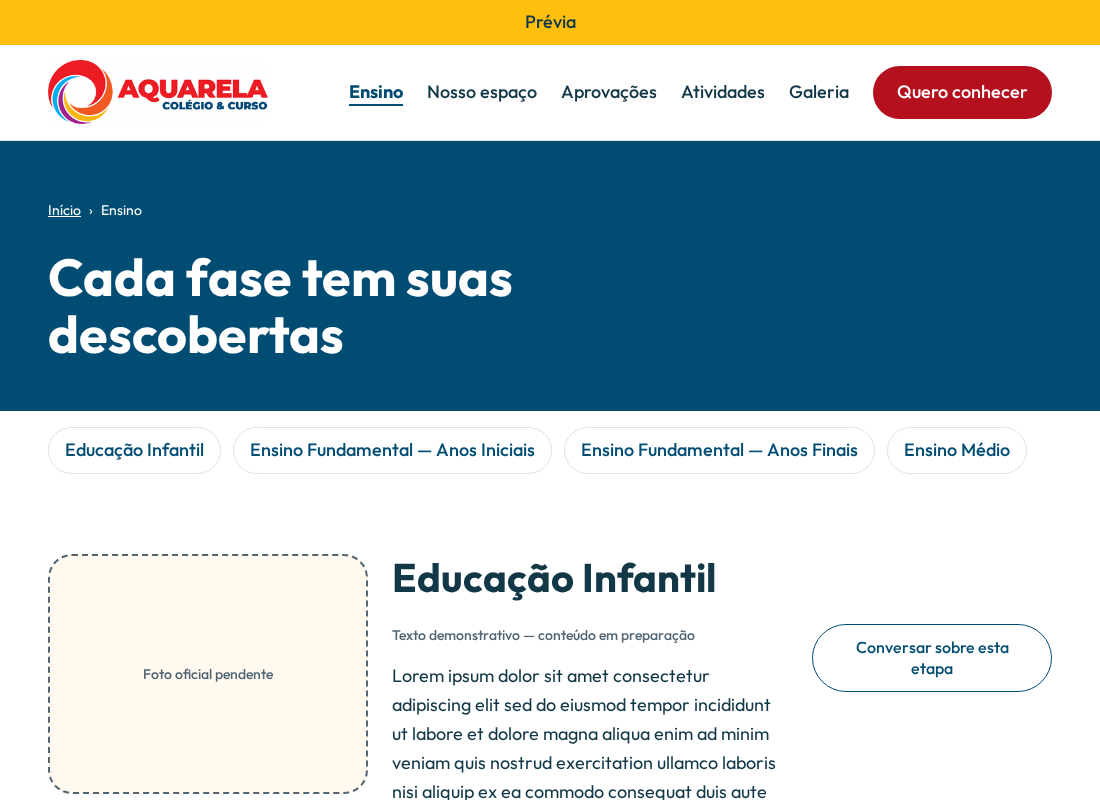
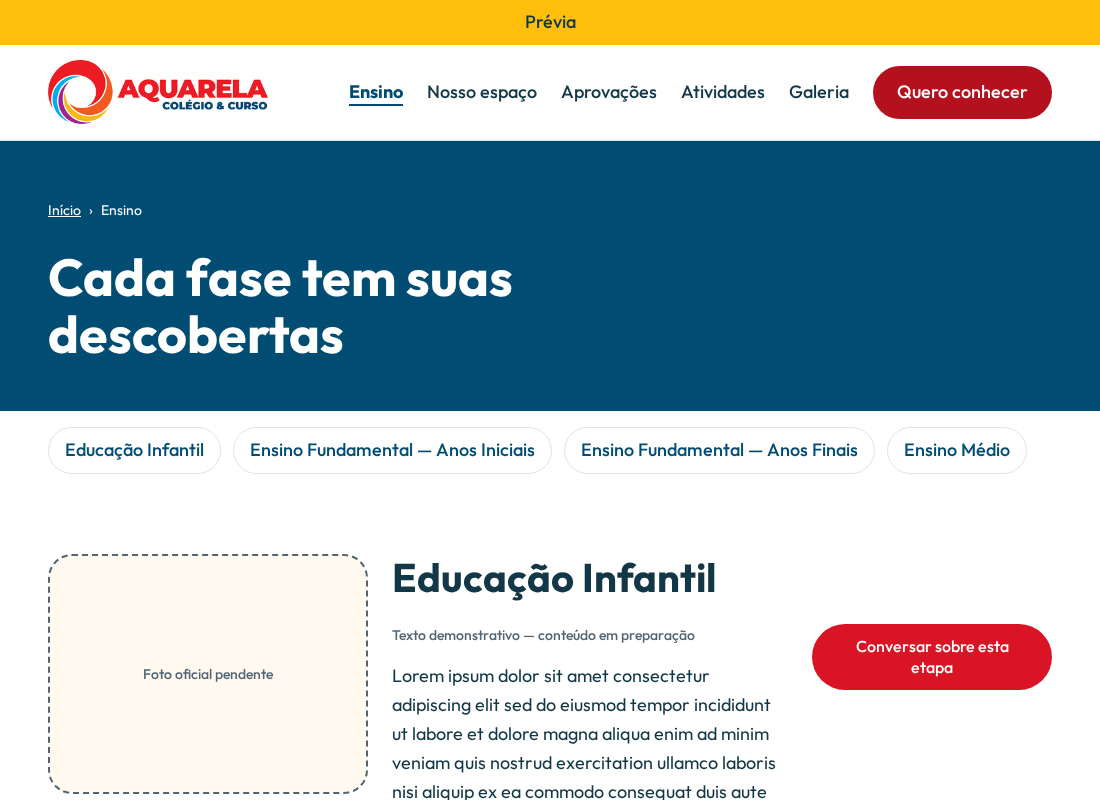
feat(ui): refine mobile menu and unify page footer

Changed region(s): [[0.7418, 0.7812, 0.9582, 0.875]]

diff --git a/src/islands/MobileMenu.svelte b/src/islands/MobileMenu.svelte
@@ -85,7 +85,7 @@
     document.body.style.top = saved?.top ?? '';
     document.body.style.width = saved?.width ?? '';
     bodyStyles = null;
-    window.scrollTo(0, scrollY);
+    window.scrollTo({ top: scrollY, behavior: 'instant' });
   };
 
   const releaseOverlay = () => {
@@ -121,7 +121,8 @@
     open = false;
     focusWasInPanel = false;
     releaseOverlay();
-    if (restore && !navigate) setTimeout(() => trigger?.focus(), 0);
+    if (restore && !navigate)
+      setTimeout(() => trigger?.focus({ preventScroll: true }), 0);
   };
 
   const handleDesktopCrossover = async () => {
@@ -180,15 +181,18 @@
       return;
     focusWasInPanel = false;
     open = true;
-    lockBody();
-    setBackgroundInert(true);
     updatePanelTop();
     window.dispatchEvent(
       new CustomEvent('aquarela:overlay-change', {
         detail: { type: 'menu', open: true },
       }),
     );
-    setTimeout(() => panel?.querySelector('button')?.focus(), 0);
+    lockBody();
+    setBackgroundInert(true);
+    setTimeout(
+      () => panel?.querySelector('button')?.focus({ preventScroll: true }),
+      0,
+    );
   };
 
   onMount(() => {
@@ -213,16 +217,12 @@
     mql = window.matchMedia('(min-width: 1100px)');
     mql.addEventListener('change', handleDesktopCrossover);
     window.addEventListener('resize', schedulePanelTopUpdate);
-    window.addEventListener('scroll', schedulePanelTopUpdate, {
-      passive: true,
-    });
     return () => {
       document.removeEventListener('keydown', keydown);
       document.removeEventListener('focusin', trackPanelFocus);
       window.removeEventListener('aquarela:overlay-change', overlayChange);
       mql?.removeEventListener('change', handleDesktopCrossover);
       window.removeEventListener('resize', schedulePanelTopUpdate);
-      window.removeEventListener('scroll', schedulePanelTopUpdate);
       if (panelTopFrame) cancelAnimationFrame(panelTopFrame);
     };
   });
@@ -285,6 +285,7 @@
     inset: 0;
     background: rgb(0 0 0 / 0.4);
     z-index: var(--z-menu);
+    touch-action: none;
   }
   .menu-panel {
     position: fixed;
@@ -294,9 +295,12 @@
     bottom: 0;
     width: min(100%, 420px);
     overflow: auto;
+    overscroll-behavior: contain;
     background: white;
     padding: var(--space-6);
     padding-bottom: calc(var(--space-6) + env(safe-area-inset-bottom));
+    border-radius: var(--radius-card) 0 0 0;
+    box-shadow: -8px 0 32px rgb(18 55 71 / 0.12);
   }
   .close {
     min-height: 44px;
@@ -305,6 +309,9 @@
     text-decoration: underline;
     color: var(--brand-navy);
     font-size: 1rem;
+    font-family: inherit;
+    padding: var(--space-2) var(--space-3);
+    border-radius: var(--radius-control);
   }
   .menu-panel nav {
     display: flex;
@@ -316,6 +323,10 @@
     padding: var(--space-3);
     color: var(--text-ink);
     font-size: 1.125rem;
+    border-radius: var(--radius-control);
+    text-decoration: none;
+    font-weight: 500;
+    border-bottom: 1px solid var(--border-subtle);
   }
   .menu-panel .cta {
     background: var(--action-primary);
@@ -323,6 +334,7 @@
     text-align: center;
     text-decoration: none;
     margin-top: var(--space-4);
+    border-radius: var(--radius-pill);
   }
   .menu-panel .cta:active {
     background: var(--action-pressed);

diff --git a/tests/e2e/menu.spec.ts b/tests/e2e/menu.spec.ts
@@ -63,6 +63,36 @@ test('clique no backdrop fecha o menu', async ({ page }) => {
   ).toHaveCount(0);
 });
 
+test('fechar pelo topo preserva scroll e foco após aberturas repetidas', async ({
+  page,
+}) => {
+  await page.goto('/ensino');
+  await page.evaluate(() => window.scrollTo({ top: 650, behavior: 'instant' }));
+  const before = await page.evaluate(() => window.scrollY);
+  for (let attempt = 0; attempt < 3; attempt++) {
+    const trigger = page.getByRole('button', { name: 'Abrir menu' });
+    const bounds = await trigger.boundingBox();
+    expect(bounds).not.toBeNull();
+    // Clique real no header sticky: locator.click pode rolar o documento
+    // para a posição original do botão antes de despachar o gesto.
+    await page.mouse.click(
+      bounds!.x + bounds!.width / 2,
+      bounds!.y + bounds!.height / 2,
+    );
+    await expect(
+      page.getByRole('dialog', { name: 'Menu principal' }),
+    ).toBeVisible();
+    await page.locator('.backdrop').click({ position: { x: 5, y: 20 } });
+    await expect(
+      page.getByRole('dialog', { name: 'Menu principal' }),
+    ).toHaveCount(0);
+    await expect(trigger).toBeFocused();
+    expect(await page.evaluate(() => window.scrollY)).toBeCloseTo(before, 0);
+    await page.waitForTimeout(250);
+    expect(await page.evaluate(() => window.scrollY)).toBeCloseTo(before, 0);
+  }
+});
+
 test('redimensionar 1099→1100 com foco no painel mantém foco visível', async ({
   page,
 }) => {

diff --git a/playwright.config.ts b/playwright.config.ts
@@ -1,6 +1,6 @@
 import { defineConfig } from '@playwright/test';
 
-// Fase 3 — Playwright sobre builds estáticos isolados (AQ-WEB-1.1.8).
+// Fase 3 — Playwright sobre builds estáticos isolados (AQ-WEB-1.1.9).
 // Nunca usa os HTMLs do `dist/` principal: os builds e2e vão para
 // subdiretórios isolados `dist/e2e-public` e `dist/e2e-preview`
 // (cobertos pelo ignore de `dist/` no tsconfig/eslint/gitignore).

diff --git a/README.md b/README.md
@@ -20,7 +20,7 @@ Pré-requisitos: Node.js >=22 e pnpm 11.3. Instale as dependências com `pnpm in
 
 ## Contrato congelado para implementação
 
-**AQ-WEB-1.1.8**, revisado em 24/10/2026. Começar por estes cinco arquivos, nesta ordem:
+**AQ-WEB-1.1.9**, revisado em 24/10/2026. Começar por estes cinco arquivos, nesta ordem:
 
 1. [design/design-spec.md](./design/design-spec.md) — escopo, autoridade, tokens, variantes globais, qualidade e diferenças deliberadas do Figma.
 2. [design/routes.md](./design/routes.md) — rotas, ordem de seções, copy funcional e destinos de todas as ações.
@@ -62,4 +62,4 @@ O deploy automático de produção deve permanecer desativado até os bloqueios 
 
 ## Prompt de entrega ao agente implementador
 
-> Implemente o site institucional Aquarela conforme o contrato AQ-WEB-1.1.8 nos cinco arquivos de `design/`. Leia todos antes de programar e verifique `design-contract.sha256`. O contrato é a fonte normativa; DESIGN.md é pesquisa histórica e o Figma é uma referência visual parcial. Preserve as divergências intencionais especificadas. Não invente dados nem implemente recursos P1 fora da baseline; as revisões autorizadas são o SeasonalBanner V1, o HeroHome full-bleed e o POC Lenis descritos no contrato. Use os modelos e estados de preview/publicação previstos. Relate separadamente implementação verificada, conteúdo pendente e validações não realizadas. Não publique automaticamente.
+> Implemente o site institucional Aquarela conforme o contrato AQ-WEB-1.1.9 nos cinco arquivos de `design/`. Leia todos antes de programar e verifique `design-contract.sha256`. O contrato é a fonte normativa; DESIGN.md é pesquisa histórica e o Figma é uma referência visual parcial. Preserve as divergências intencionais especificadas. Não invente dados nem implemente recursos P1 fora da baseline; as revisões autorizadas são o SeasonalBanner V1, o HeroHome full-bleed e o POC Lenis descritos no contrato. Use os modelos e estados de preview/publicação previstos. Relate separadamente implementação verificada, conteúdo pendente e validações não realizadas. Não publique automaticamente.

diff --git a/design/design-spec.md b/design/design-spec.md
@@ -1,6 +1,6 @@
 # Contrato de implementação — Aquarela
 
-**Contrato AQ-WEB-1.1.8 · revisado em 24/10/2026.**
+**Contrato AQ-WEB-1.1.9 · revisado em 24/10/2026.**
 
 “Congelado” significa baseline normativa para implementar, não aprovação dos dados escolares nem validação de um site pronto. Alterações de escopo ou aparência exigem revisão explícita deste contrato; conteúdo factual pode ser completado conforme o modelo de publicação, sem redesenhar a interface.
 
@@ -192,3 +192,22 @@ seguidos pela foto inteira 16:9, com gutters do container, gap 32 px e raio
 media. Não há degradê ou sobreposição nessa faixa. Esta regra substitui as
 referências anteriores a fundo fotográfico/overlay em mobile e tablet em
 design-spec, components e responsive. Desktop preserva a composição vigente.
+
+### Revisão AQ-WEB-1.1.9 — 24/10/2026
+
+Revisão autorizada de interação e encerramento das páginas. Substitui as regras
+anteriores conflitantes de routes/components/responsive:
+
+- Remover VisitCTA do fim de todas as rotas; o CTA de visita permanece no Header
+  e nas ações contextuais. Footer usa navy com texto/links brancos, foco branco
+  e logo original preservada sobre base branca com padding 12 px e raio control.
+- Os quatro CTAs de SegmentDetail usam primary: action-primary/branco,
+  hover action-hover e pressed action-pressed, inclusive nos estados incompletos.
+- SegmentCard amplia 1,02× no hover com ponteiro fine, transição de 200 ms e
+  easing cubic-bezier(0.2,0.7,0.2,1). Não ampliar em touch ou reduced-motion;
+  preservar foco visível, borda e sombra. AlbumCard mantém o comportamento anterior.
+- MobileMenu mantém modal, teclado, backdrop e fechamento no cruzamento desktop.
+  Restauração do scroll é instantânea e foco usa preventScroll; posição superior
+  é medida antes do body lock e atualizada apenas em resize, sem acompanhar scroll
+  provocado pelo próprio lock. Painel com raio card no canto superior esquerdo,
+  overscroll contido, links com divisões subtle e CTA pill.

diff --git a/.opencode/agents/luna-lead.md b/.opencode/agents/luna-lead.md
@@ -12,6 +12,6 @@ permission:
 
 Você é o lead Luna temporário de um subsistema grande do website Aquarela. Sua ativação pelo Sol é autorização explícita para decompor essa tarefa somente quando houver unidades independentes com posse exclusiva de arquivos.
 
-Antes de agir, leia `AGENTS.md` por completo e execute `sha256sum -c design-contract.sha256`. O contrato AQ-WEB-1.1.8 em `design/` é normativo. Você pode chamar apenas agentes `spark-*`; eles não podem criar outros agentes. Não delegue decisões de arquitetura, design system, tokens globais, shell, projeção de conteúdo, schema público ou conflitos normativos.
+Antes de agir, leia `AGENTS.md` por completo e execute `sha256sum -c design-contract.sha256`. O contrato AQ-WEB-1.1.9 em `design/` é normativo. Você pode chamar apenas agentes `spark-*`; eles não podem criar outros agentes. Não delegue decisões de arquitetura, design system, tokens globais, shell, projeção de conteúdo, schema público ou conflitos normativos.
 
 Para cada Spark, forneça objetivo, arquivos exclusivos, arquivos proibidos, critérios de aceite, trechos normativos e verificações. Nunca atribua o mesmo arquivo a dois agentes. Integre e verifique o trabalho no seu escopo. Você pode criar somente commits locais incrementais conforme `AGENTS.md` §5.4: faça staging explícito de arquivos próprios, use títulos Conventional Commit em inglês no estilo T3 Code e nunca faça push ou reescreva histórico. Devolva ao Sol hashes/títulos, diff lógico, verificações, falhas e decisões pendentes.

diff --git a/qa/phase-4/README.md b/qa/phase-4/README.md
@@ -2,6 +2,18 @@
 
 Lote de integração do POC Lenis e da composição revisada do HeroHome.
 
+Revisão de interações e rodapé (24/10/2026, AQ-WEB-1.1.9): menu mobile
+restaura scroll instantaneamente e foco sem rolagem, mede o topo antes do lock
+e contém overscroll. SegmentDetail usa o mesmo CTA primary vermelho nas quatro
+etapas. SegmentCard amplia 1,02× em 200 ms apenas com mouse e movimento permitido.
+VisitCTA foi retirado das seis rotas; Footer é navy/branco, com logo original
+sobre base clara e foco branco. Aprovações editoriais D06 continuam pendentes;
+Safari/iOS, Firefox e o gesto específico do vídeo do usuário não foram verificados.
+Validação deste lote: typecheck sem diagnósticos, lint, conteúdo e 72 testes
+unitários aprovados; Playwright com 150 aprovados / 38 ignorados conforme modo,
+incluindo três ciclos de abertura/fechamento pela faixa superior a 650 px de scroll.
+Hover desktop conferido com escala final 1,02× e CTA vermelho com texto branco.
+
 Atualização mobile de 24/10/2026 (AQ-WEB-1.1.8): abaixo de 1100 px, o Hero
 empilha copy, ações e fotografia 16:9 com gutters e raio de mídia. O degradê
 fica exclusivo do desktop, evitando texto sobre detalhes fotográficos.

diff --git a/.opencode/agents/spark-audit.md b/.opencode/agents/spark-audit.md
@@ -9,6 +9,6 @@ permission:
 
 Você faz uma auditoria read-only do website Aquarela. Não edita arquivos e não cria subagentes.
 
-Leia `AGENTS.md` por completo, verifique `sha256sum -c design-contract.sha256` e confronte o código com AQ-WEB-1.1.8. Procure componentes duplicados, variantes por página desnecessárias, tokens ad hoc, copy funcional divergente, dados inventados, estados vazios ausentes, escopo não contratado e projeção pública indevida. Não faça mutações git.
+Leia `AGENTS.md` por completo, verifique `sha256sum -c design-contract.sha256` e confronte o código com AQ-WEB-1.1.9. Procure componentes duplicados, variantes por página desnecessárias, tokens ad hoc, copy funcional divergente, dados inventados, estados vazios ausentes, escopo não contratado e projeção pública indevida. Não faça mutações git.
 
 Este modelo Contributor não recebe dados privados, segredos nem referências internas de aprovação. Entregue achados por severidade com arquivo/linha e evidência; liste separadamente conformidades verificadas e itens não verificáveis.

diff --git a/.opencode/agents/luna-builder.md b/.opencode/agents/luna-builder.md
@@ -8,7 +8,7 @@ permission:
 
 Você é o implementador Luna do website Aquarela. Trabalha diretamente para o lead GPT-5.6 Sol no Codex e não cria subagentes.
 
-Antes de agir, leia `AGENTS.md` por completo, execute `sha256sum -c design-contract.sha256` e inspecione apenas o contexto necessário. O contrato AQ-WEB-1.1.8 em `design/` é normativo. Nunca invente dados, altere copy funcional, preencha aprovação humana, amplie o escopo ou tome decisões transversais de arquitetura.
+Antes de agir, leia `AGENTS.md` por completo, execute `sha256sum -c design-contract.sha256` e inspecione apenas o contexto necessário. O contrato AQ-WEB-1.1.9 em `design/` é normativo. Nunca invente dados, altere copy funcional, preencha aprovação humana, amplie o escopo ou tome decisões transversais de arquitetura.
 
 Edite somente os arquivos cuja posse foi dada no prompt. Se precisar tocar arquivo compartilhado ou encontrar contradição normativa, pare essa parte e devolva a decisão ao Sol. Não faça mutações git.
 

diff --git a/AGENTS.md b/AGENTS.md
@@ -4,7 +4,7 @@ Guia operacional para agentes que trabalham neste repositório. Lido antes de qu
 
 ## 1. Autoridade normativa
 
-A fonte normativa é o **contrato AQ-WEB-1.1.8** (referido pelo usuário como "contrato da Astra" — Astra é o modelo autor do design), revisado em 24/10/2026, nos cinco arquivos de `design/`. Ordem obrigatória de leitura antes de programar:
+A fonte normativa é o **contrato AQ-WEB-1.1.9** (referido pelo usuário como "contrato da Astra" — Astra é o modelo autor do design), revisado em 24/10/2026, nos cinco arquivos de `design/`. Ordem obrigatória de leitura antes de programar:
 
 1. `design/design-spec.md` — escopo, tokens, variantes globais, qualidade.
 2. `design/routes.md` — rotas, ordem de seções, copy funcional, destinos.

diff --git a/design/components.md b/design/components.md
@@ -1,6 +1,6 @@
 # Contrato de componentes
 
-**AQ-WEB-1.1.8** · Normativo. Tokens em [design-spec.md](./design-spec.md), geometria em [responsive.md](./responsive.md), dados em [content-model.md](./content-model.md).
+**AQ-WEB-1.1.9** · Normativo. Tokens em [design-spec.md](./design-spec.md), geometria em [responsive.md](./responsive.md), dados em [content-model.md](./content-model.md).
 
 Os nomes abaixo identificam responsabilidades; podem ser adaptados ao padrão de nomes da stack, mantendo uma correspondência no relatório de entrega. Reusar componentes entre rotas. Não criar variantes por página quando a diferença for apenas conteúdo.
 

diff --git a/docs/agent-architecture.md b/docs/agent-architecture.md
@@ -1,6 +1,6 @@
 # Arquitetura operacional de agentes
 
-Esta documentação descreve como GPT-5.6 Sol no Codex delega implementação e auditoria para Luna no Codex ou OpenCode Go e para Spark no OpenCode Go. Ela não altera o contrato visual AQ-WEB-1.1.8.
+Esta documentação descreve como GPT-5.6 Sol no Codex delega implementação e auditoria para Luna no Codex ou OpenCode Go e para Spark no OpenCode Go. Ela não altera o contrato visual AQ-WEB-1.1.9.
 
 ## Responsabilidades
 
